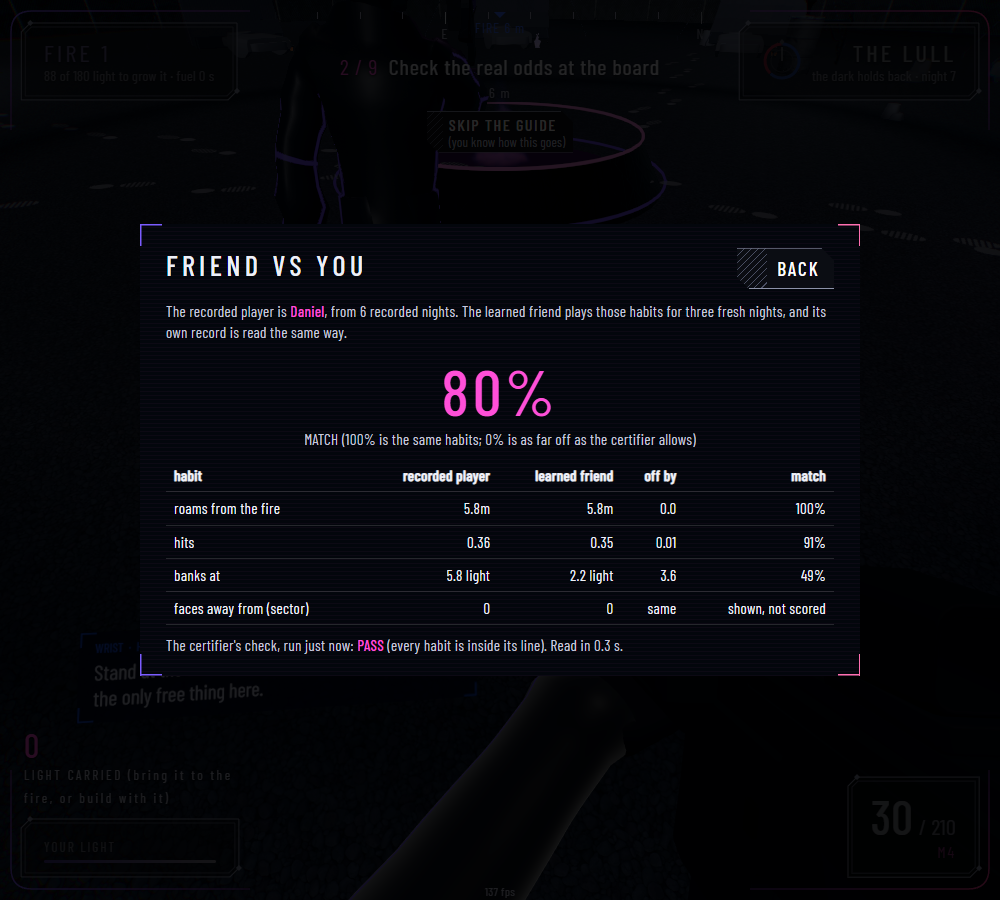
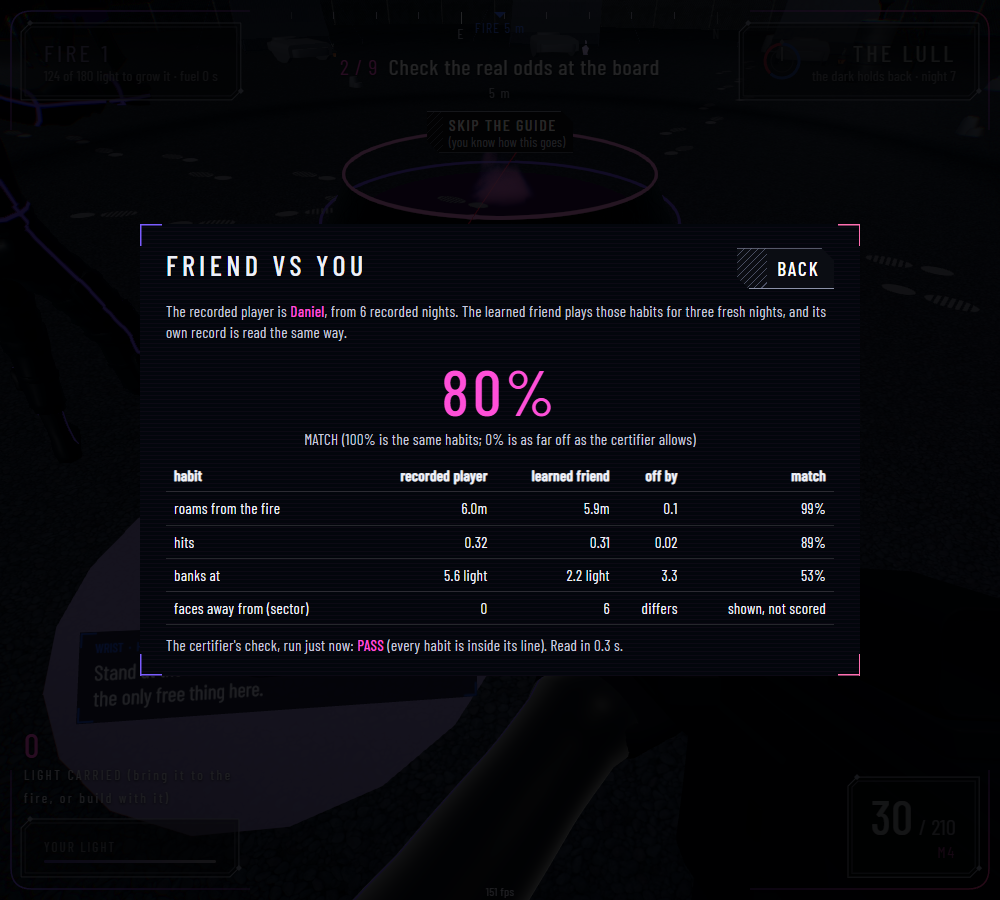
v176: lane B2 shipped, 69 of 69 checklist items, 345 of 345 marks (perfect crew 12 nights in the real client, FRIEND VS YOU, THE DAEMON, EXPORT NIGHTS)

diff --git a/next/client/main.js b/next/client/main.js
@@ -1,46 +1,46 @@
 // Last Fire (the new foundation), piece 1: drawing, sound and input around the rules in core/game.js.
 // The rules run here as host; nothing in this file decides what happens, only what you see, hear and send in.
 import * as THREE from 'three';
-import * as C from '../core/game.js?v=175';
-import { Ambience } from './ambience.js?v=175';
-import { Camp, BOARD } from './camp.js?v=175';
-import { Guide } from './guide.js?v=175';
-import { buildSites } from './earthsite.js?v=175';
-import { RiftView, riftGround } from './rift.js?v=175';
-import { FogBank } from './fogbank.js?v=175';
-import { Truck } from './truck.js?v=175';
-import { ShipView } from './shipview.js?v=175';
-import { Crew } from './crew.js?v=175';
-import { Hands } from './hands.js?v=175';
-import { FpRig } from './fprig.js?v=175';
-import { farStep } from './farsound.js?v=175';
-import { OpticsView } from './optics.js?v=175';
-import { Wrist } from './wrist.js?v=175';
-import { FireCore } from './firecore.js?v=175';
+import * as C from '../core/game.js?v=176';
+import { Ambience } from './ambience.js?v=176';
+import { Camp, BOARD } from './camp.js?v=176';
+import { Guide } from './guide.js?v=176';
+import { buildSites } from './earthsite.js?v=176';
+import { RiftView, riftGround } from './rift.js?v=176';
+import { FogBank } from './fogbank.js?v=176';
+import { Truck } from './truck.js?v=176';
+import { ShipView } from './shipview.js?v=176';
+import { Crew } from './crew.js?v=176';
+import { Hands } from './hands.js?v=176';
+import { FpRig } from './fprig.js?v=176';
+import { farStep } from './farsound.js?v=176';
+import { OpticsView } from './optics.js?v=176';
+import { Wrist } from './wrist.js?v=176';
+import { FireCore } from './firecore.js?v=176';
 import { EffectComposer } from '../../vendor/jsm/postprocessing/EffectComposer.js';
 import { RenderPass } from '../../vendor/jsm/postprocessing/RenderPass.js';
 import { UnrealBloomPass } from '../../vendor/jsm/postprocessing/UnrealBloomPass.js';
 import { OutputPass } from '../../vendor/jsm/postprocessing/OutputPass.js';
 import { ShaderPass } from '../../vendor/jsm/postprocessing/ShaderPass.js';
-import { think as friendThink } from './friend.js?v=175';
-import { FriendVoice } from './friendvoice.js?v=175';
-import { crewFrom } from '../core/habits.js?v=175';
-import { HudLook } from './hudlook.js?v=175';
-import { UI } from './uikit.js?v=175';
-import { Rain } from './rain.js?v=175';
-import { Immersion } from './immersion.js?v=175';
-import { codexHtml } from './codex.js?v=175';
-import { VisorRain } from './visor.js?v=175';
-import { applyLook } from './looks.js?v=175';
-import { Net, roomCode, cleanCode, CODE_LEN, MAX_PLAYERS } from './net.js?v=175';
-import { sound, GUNS } from '../../src/combat.js?v=175';
-import { FX } from '../../src/fx.js?v=175';
+import { think as friendThink } from './friend.js?v=176';
+import { FriendVoice } from './friendvoice.js?v=176';
+import { crewFrom } from '../core/habits.js?v=176';
+import { HudLook } from './hudlook.js?v=176';
+import { UI } from './uikit.js?v=176';
+import { Rain } from './rain.js?v=176';
+import { Immersion } from './immersion.js?v=176';
+import { codexHtml } from './codex.js?v=176';
+import { VisorRain } from './visor.js?v=176';
+import { applyLook } from './looks.js?v=176';
+import { Net, roomCode, cleanCode, CODE_LEN, MAX_PLAYERS } from './net.js?v=176';
+import { sound, GUNS } from '../../src/combat.js?v=176';
+import { FX } from '../../src/fx.js?v=176';
 import { GLTFLoader } from '../../vendor/jsm/loaders/GLTFLoader.js';
-import { Creatures } from './creatures.js?v=175';
-import { Impact, smokeHit } from './impact.js?v=175';
+import { Creatures } from './creatures.js?v=176';
+import { Impact, smokeHit } from './impact.js?v=176';
 
 const $ = id => document.getElementById(id);
-const BUILD = 175;   // (this copy's version; ./version.json says the newest)
+const BUILD = 176;   // (this copy's version; ./version.json says the newest)
 const DEFAULTS = { sens: 1, vol: 0.8, fov: 78, adsSens: 0.65, aimToggle: true, sprintToggle: false, invertY: false, autoReload: true, cross: true, moveEras: false };   // (his quality of life ask, 2026-10-19: aim is a toggle by default, and every one of these is a click in the pause menu)
 const SET = Object.assign({ ...DEFAULTS, name: '' }, (() => { try { return JSON.parse(localStorage.getItem('lastfire2') || '{}'); } catch (e) { return {}; } })());
 const save = () => { try { localStorage.setItem('lastfire2', JSON.stringify(SET)); } catch (e) {} };

diff --git a/next/client/codex.js b/next/client/codex.js
@@ -1,14 +1,14 @@
 // The CODEX: one honest place (in the pause menu) where a player can read what play never says out loud. Four lists, plain words, from the
 // game's own tables, never retyped: what each rule is and why it is in the world (core/reasons.js), what each era teaches (core/lessons.js), the
 // feel check beside each number (core/feel.js), and what checked, reasoned and guess mean (core/knowledge.js). Steel-thin lines on black, no glow.
-import * as G from '../core/game.js?v=175';
-import { SHIP } from '../core/ship.js?v=175';
-import { CAMP } from '../core/camp.js?v=175';
-import { REASONS } from '../core/reasons.js?v=175';
-import { ERAS } from '../core/lessons.js?v=175';
-import { PLACED } from '../core/placed.js?v=175';
-import { FEEL } from '../core/feel.js?v=175';
-import { LABELS, NEED } from '../core/knowledge.js?v=175';
+import * as G from '../core/game.js?v=176';
+import { SHIP } from '../core/ship.js?v=176';
+import { CAMP } from '../core/camp.js?v=176';
+import { REASONS } from '../core/reasons.js?v=176';
+import { ERAS } from '../core/lessons.js?v=176';
+import { PLACED } from '../core/placed.js?v=176';
+import { FEEL } from '../core/feel.js?v=176';
+import { LABELS, NEED } from '../core/knowledge.js?v=176';
 
 const TABLES = { KINDS: G.KINDS, NODE: G.NODE, PARTS: G.PARTS, CAR: G.CAR, CAMP, FIRE_COST: G.FIRE_COST, SLAM: G.SLAM, TORCH: G.TORCH, FLARE: G.FLARE, SENSE: G.SENSE, TRACER: G.TRACER, PULL: G.PULL, REACT: G.REACT,
   DIRECTOR: G.DIRECTOR, FLOOD_WARN: { FLOOD_WARN: G.FLOOD_WARN }, EARTH_DARK: G.EARTH_DARK, DUES: G.DUES, SOLID_AT: { SOLID_AT: G.SOLID_AT }, WALLS: G.WALLS, EARTH: G.EARTH, SHIP };

diff --git a/next/client/immersion.js b/next/client/immersion.js
@@ -2,15 +2,15 @@
 // the strange sky and far land, the dark's edge, fog that thickens at dusk, the mirror realm's signs, moments of hyper-awareness,
 // and the morning after (what last night left, said once at dawn through the wrist).
 import * as THREE from 'three';
-import { fogAt, edgeOf, consequences } from '../core/immersion.js?v=175';
-import { awareStep } from '../core/awareness.js?v=175';
-import { Strange } from './strange.js?v=175';
-import { Edge } from './edge.js?v=175';
-import { MirrorSigns } from './mirror.js?v=175';
-import { Details } from './details.js?v=175';
-import { Forest } from './forest.js?v=175';
-import { BOARD } from './camp.js?v=175';
-import { onEarth, phase, EARTH } from '../core/game.js?v=175';
+import { fogAt, edgeOf, consequences } from '../core/immersion.js?v=176';
+import { awareStep } from '../core/awareness.js?v=176';
+import { Strange } from './strange.js?v=176';
+import { Edge } from './edge.js?v=176';
+import { MirrorSigns } from './mirror.js?v=176';
+import { Details } from './details.js?v=176';
+import { Forest } from './forest.js?v=176';
+import { BOARD } from './camp.js?v=176';
+import { onEarth, phase, EARTH } from '../core/game.js?v=176';
 
 const note = (kind, text) => { if (window.__lf) (window.__imm = window.__imm || []).push([kind, text]); };   // (the test hook ?shot reads these: what was said and when)
 export class Immersion {

diff --git a/next/client/camp.js b/next/client/camp.js
@@ -4,10 +4,10 @@
 import * as THREE from 'three';
 import { GLTFLoader } from '../../vendor/jsm/loaders/GLTFLoader.js';
 import { clone as skClone } from '../../vendor/jsm/utils/SkeletonUtils.js';
-import { pickFresh } from '../core/lines.js?v=175';
-import * as LO from '../core/lore.js?v=175';   // (the lore rules: the honest number, the softened board, jobs; tested by sim/lore_test.mjs)
-import * as JOB from '../core/jobs.js?v=175';
-import { stream } from '../core/game.js?v=175';
+import { pickFresh } from '../core/lines.js?v=176';
+import * as LO from '../core/lore.js?v=176';   // (the lore rules: the honest number, the softened board, jobs; tested by sim/lore_test.mjs)
+import * as JOB from '../core/jobs.js?v=176';
+import { stream } from '../core/game.js?v=176';
 
 /* (the palette guard, A2 look pass 2026-10-19: no orange, gold, rust, brown or olive may reach the screen from a scanned asset. Every loaded material's diffuse is checked in the shader: a hue from red-orange through yellow to green with real color in it is pulled to a cold blue-gray steel at the same brightness. Blues, violets and grays pass untouched; lamps and signs are emissive and are not touched.) */
 const GUARD_GLSL = `#include <map_fragment>

diff --git a/next/client/friend.js b/next/client/friend.js
@@ -1,7 +1,7 @@
 // The learned friend (his ask, 2026-10-19: play with someone who feels exactly like Dalton, or like you): the same faithful robot the
 // certifier uses (sim/certify.mjs), playing one person's recorded habits (core/habits.js crewFrom). It keeps the camp; it never takes the lander.
-import { hitRay, damage, heightAt, KINDS, shotBy, canGrow, grow, fired } from '../core/game.js?v=175';
-import { SECTORS, CAL } from '../core/habits.js?v=175';
+import { hitRay, damage, heightAt, KINDS, shotBy, canGrow, grow, fired } from '../core/game.js?v=176';
+import { SECTORS, CAL } from '../core/habits.js?v=176';
 const PISTOL = { dmg: 40, head: 2.5, ap: 0.1, rate: 0.35 };
 export function think(g, p, r, dt) {   // (one robot plays one person's habits: where they roam, when they bank, how they aim, the way they never look)
   const S = p.style; if (p.ember) return; if (S.perfect) return perfectThink(g, p, r, dt); const f = g.fire;

diff --git a/next/client/earthsite.js b/next/client/earthsite.js
@@ -1,9 +1,9 @@
 // The lander and the landing site (PLAN-SPACE.md step 3: gray boxes first; real models come after the robots and his hands say the trip is right).
 // The pad on the Moon and the site on Earth each get a lander; Earth gets a dead city of broken towers around the site.
 import * as THREE from 'three';
-import { PAD, EARTH, TOWERS, WALLS } from '../core/game.js?v=175';
-import { buildShip } from './shipmodel.js?v=175';
-import { buildRuins } from './ruins.js?v=175';
+import { PAD, EARTH, TOWERS, WALLS } from '../core/game.js?v=176';
+import { buildShip } from './shipmodel.js?v=176';
+import { buildRuins } from './ruins.js?v=176';
 
 function lander(scene, x, z, y) {   // (the pad, and on it the ship modeled in code: the old cylinder, cone and floating red window were gray-box stand-ins he saw up close, 2026-10-19)
   const g = new THREE.Group(), line = new THREE.MeshBasicMaterial({ color: 0xff3b5c });

diff --git a/next/client/strange.js b/next/client/strange.js
@@ -2,7 +2,7 @@
 // is (strangeAt); this file draws it: a ringed disc in the sky that grows and tilts, and thin dark spires on the horizon that appear only
 // where the land is strange. Nothing glows, nothing floats near you, and the spires sit in the fog so they only ever read as far away.
 import * as THREE from 'three';
-import { strangeAt, skyOf, spiresNear } from '../core/immersion.js?v=175';
+import { strangeAt, skyOf, spiresNear } from '../core/immersion.js?v=176';
 
 const bands = (w, h, rows, lo, hi) => { const c = document.createElement('canvas'); c.width = w; c.height = h; const x = c.getContext('2d');
   for (let i = 0; i < rows; i++) { const t = i / rows, a = lo + (hi - lo) * (0.5 + 0.5 * Math.sin(i * 2.1) * Math.cos(i * 0.7)); x.fillStyle = `rgb(${Math.round(a * 70)},${Math.round(a * 44)},${Math.round(a * 104)})`; x.fillRect(0, t * h, w, h / rows + 1); }

diff --git a/next/client/details.js b/next/client/details.js
@@ -1,7 +1,7 @@
 // Small details up close (core/details.js): worn boot prints along the paths people walk, a scorch ring that grows with the fire, and tally scratches
 // on the board post, one per night survived. All flat decals on the ground or the post: no glow, nothing floating, sunk a hair into the ground.
 import * as THREE from 'three';
-import { bootPrints, scorchRadius, tallyOf, SPOTS } from '../core/details.js?v=175';
+import { bootPrints, scorchRadius, tallyOf, SPOTS } from '../core/details.js?v=176';
 
 const printTex = () => { const c = document.createElement('canvas'); c.width = 64; c.height = 128; const x = c.getContext('2d'); x.fillStyle = '#fff';
   x.beginPath(); x.ellipse(32, 38, 17, 30, 0, 0, 7); x.fill(); x.beginPath(); x.ellipse(32, 98, 14, 20, 0, 0, 7); x.fill();   // (a sole and a heel, two blobs with a gap: the shape of a boot print)

diff --git a/next/client/truck.js b/next/client/truck.js
@@ -1,8 +1,8 @@
 // Parts lying out on Earth, and the truck at the bay in camp, drawn as it is really fitted. The model is made in code (truckmodel.js):
 // each part a few smooth surfaces you can read from far away, so you know what you found, and the whole truck five draw calls.
 import * as THREE from 'three';
-import { BAY, PARTS } from '../core/game.js?v=175';
-import { buildTruck, buildPart, buildRoofLamp } from './truckmodel.js?v=175';
+import { BAY, PARTS } from '../core/game.js?v=176';
+import { buildTruck, buildPart, buildRoofLamp } from './truckmodel.js?v=176';
 
 const FULL = Object.fromEntries(Object.entries(PARTS).map(([k, v]) => [k, v.n])), WRECK = { frame: 1, axle: 1, wheel: 1, cab: 1 };   // (a wreck: what is left after the scavengers)
 export class Truck {

diff --git a/next/client/forest.js b/next/client/forest.js
@@ -6,8 +6,8 @@
 // the same bark only (no needle cards), past 240 m nothing; the instance sets are rebuilt when you have moved 25 m. Drawn only on Earth.
 import * as THREE from 'three';
 import { Tree } from '../../vendor/ez-tree/ez-tree.es.js';
-import { TREES, EARTH } from '../core/game.js?v=175';
-import { WILDS } from '../core/wilds.js?v=175';
+import { TREES, EARTH } from '../core/game.js?v=176';
+import { WILDS } from '../core/wilds.js?v=176';
 
 const BARK = 0x06070b, NEEDLE = 0x090a10, GREEN = 0x2b6a3c;
 // variant recipes: preset to start from, seed, and what to change; each kind of core tree picks among its variants by its place in the list

diff --git a/next/client/rift.js b/next/client/rift.js
@@ -3,8 +3,8 @@
 // cracks in the ground and spreads across the land outside the walls (green, clean patches left between); inside, a black plain cracked
 // everywhere, a deep crimson dark, and the console nobody understands. The rules are core/rift.js.
 import * as THREE from 'three';
-import { RIFT, EARTH } from '../core/game.js?v=175';
-import { WILDS } from '../core/wilds.js?v=175';
+import { RIFT, EARTH } from '../core/game.js?v=176';
+import { WILDS } from '../core/wilds.js?v=176';
 
 // the corruption in the ground: glowing cracks, crimson to violet, strongest at the mouth and in the Rift, patchy outside the walls
 const VEINS = `

diff --git a/next/client/shipview.js b/next/client/shipview.js
@@ -3,9 +3,9 @@
 // The model: assets/ship.glb when it exists (made by TRELLIS.2 from a concept), else the ship modeled in code (shipmodel.js).
 import * as THREE from 'three';
 import { GLTFLoader } from '../../vendor/jsm/loaders/GLTFLoader.js';
-import { SHIP, flyShip } from '../core/ship.js?v=175';
-import { shipBounds } from '../core/game.js?v=175';
-import { buildShip } from './shipmodel.js?v=175';
+import { SHIP, flyShip } from '../core/ship.js?v=176';
+import { shipBounds } from '../core/game.js?v=176';
+import { buildShip } from './shipmodel.js?v=176';
 
 export class ShipView {
   constructor(scene, land) {
